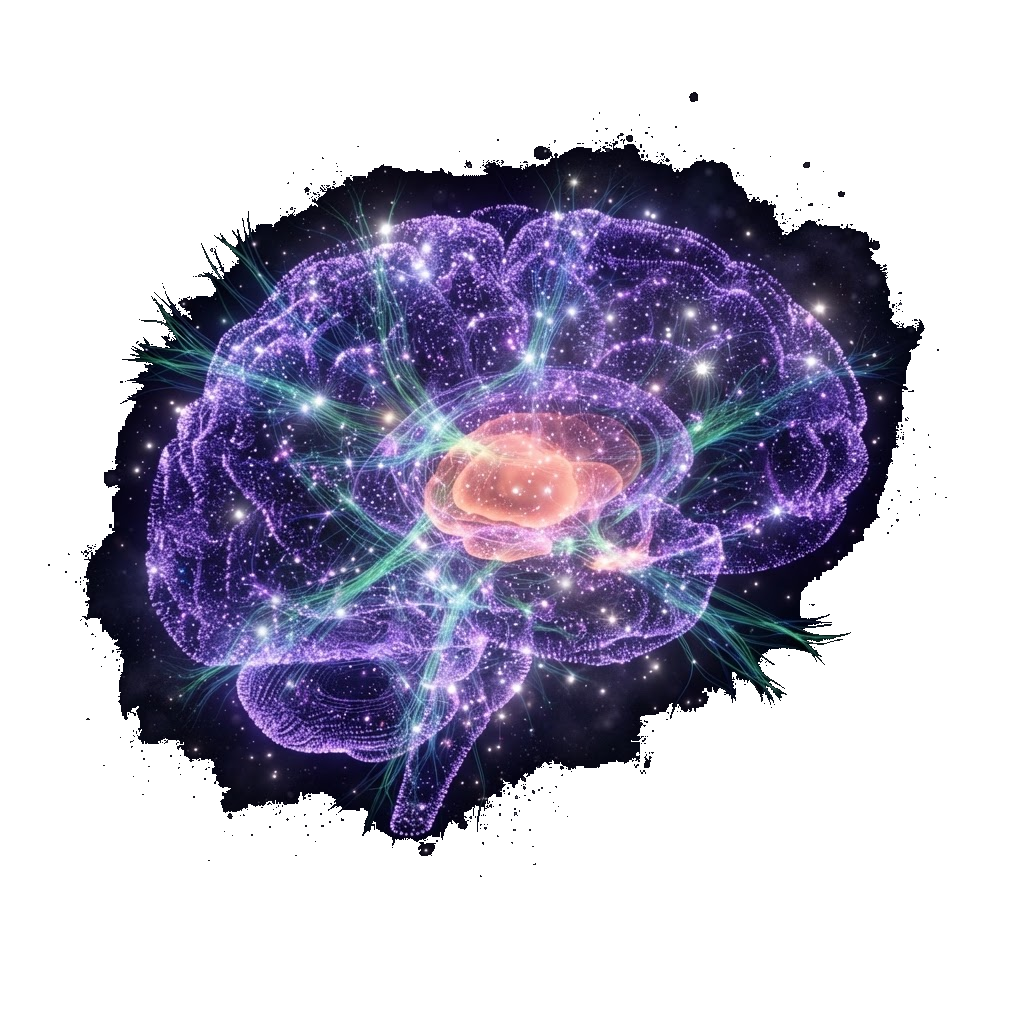
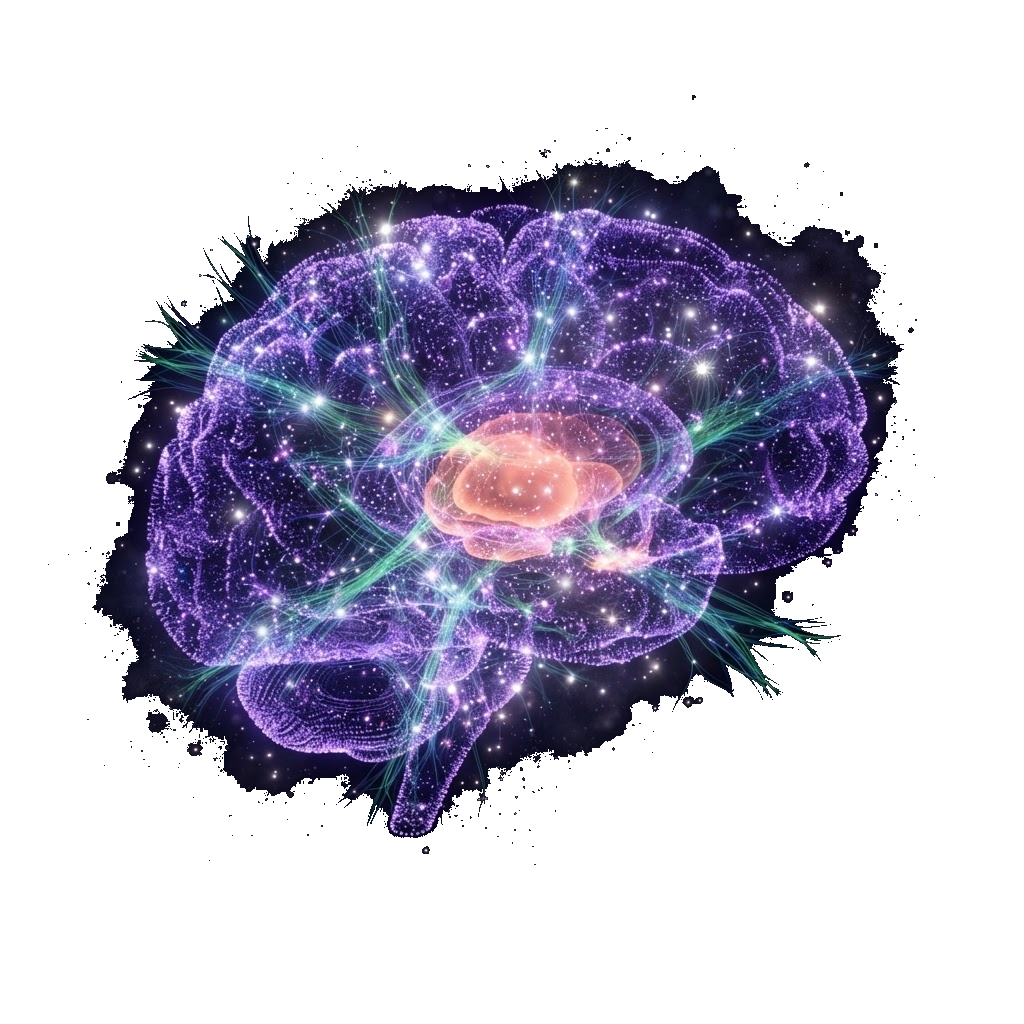
Reprocess the brain image with a cleaner cutout (no dark edge halo); tighten spacing and shrink both the album stack and brain hero so they both fit on first view

Changed region(s): [[0.4062, 0.1875, 0.9062, 0.8438], [0.0625, 0.3438, 0.375, 0.8125], [0.1562, 0.125, 0.7188, 0.3438]]

diff --git a/src/neural/Sections.jsx b/src/neural/Sections.jsx
@@ -1065,7 +1065,7 @@ function AlbumStack({ songs }) {
   return (
     <div>
       <div
-        className="album-scroll h-[440px] overflow-y-auto overflow-x-hidden px-2 py-8"
+        className="album-scroll h-[300px] overflow-y-auto overflow-x-hidden px-2 py-6"
         style={{ perspective: "900px", perspectiveOrigin: "50% 40%" }}
         onMouseMove={(e) => setActive(cardAt(e.clientY))}
         onMouseLeave={() => setActive(null)}
@@ -1645,7 +1645,7 @@ function BrainArcPhoto({ item, pos, hue }) {
 
 export function AboutMe() {
   return (
-    <section id="about" className="relative min-h-screen bg-white py-16">
+    <section id="about" className="relative min-h-screen bg-white py-8">
       {/* corner labels */}
       <div className="flex items-start justify-between px-8 sm:px-14">
         <span className="font-sans text-[11px] font-medium uppercase tracking-[0.25em] text-[#171411]">
@@ -1656,10 +1656,10 @@ export function AboutMe() {
         </span>
       </div>
 
-      <div className="mx-auto mt-16 max-w-5xl px-8 sm:px-14">
+      <div className="mx-auto mt-6 max-w-5xl px-8 sm:px-14">
         {/* interactive music — a 3D stack of favourite covers */}
         <div>
-          <div className="mb-3 flex items-baseline justify-between gap-3">
+          <div className="mb-2 flex items-baseline justify-between gap-3">
             <p className="font-mono text-[10px] uppercase tracking-[0.3em] text-[#a09a8c]">
               ♪ what's spinning in my ears
             </p>
@@ -1676,7 +1676,7 @@ export function AboutMe() {
         </div>
 
         {/* welcome to my brain — flow-field hero with one hotspot per part of my life */}
-        <div className="mt-16">
+        <div className="mx-auto mt-6 max-w-md">
           <NeuralMap items={INTERESTS} />
         </div>
       </div>
